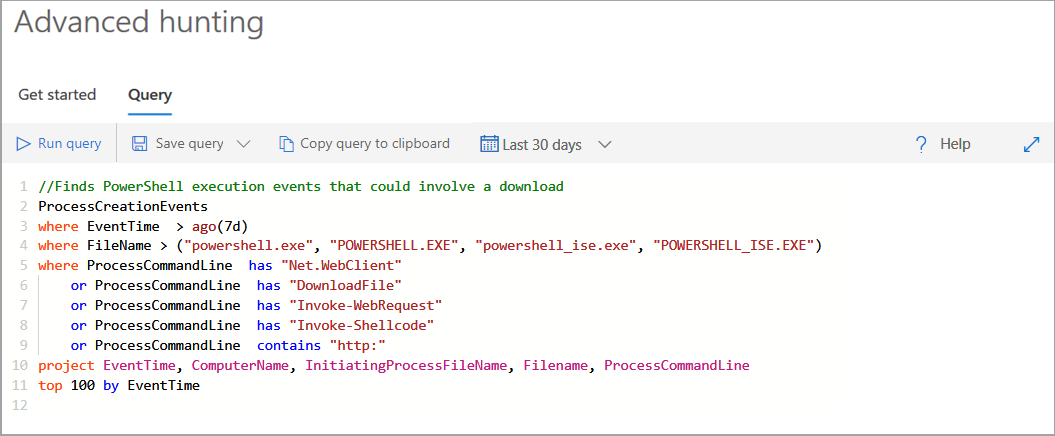
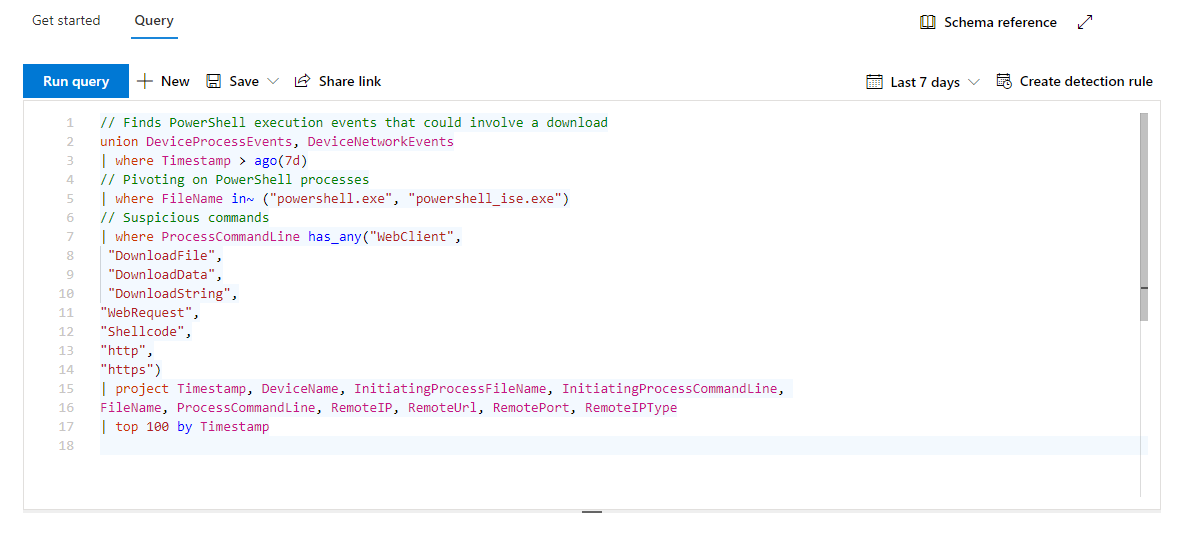
updates to fixed dev ops tickets

diff --git a/learn-m365-pr/m365/m365-security-threat-protect/includes/hunt-threats-within-network.md b/learn-m365-pr/m365/m365-security-threat-protect/includes/hunt-threats-within-network.md
@@ -2,15 +2,17 @@ Advanced hunting within Microsoft Defender for Endpoint allows you to hunt for p
 
 ### Explore how to investigate and remediate threats with Microsoft Defender for Endpoint
 
-View a [video version](https://www.microsoft.com/videoplayer/embed/RE4GfeG) of the interactive guide (captions available in more languages).
+You can use threat-hunting queries to build custom detection rules. These rules run automatically to check for and respond to various events and system states, including suspected breach activity and misconfigured machines.
 
-<a href="https://mslearn.cloudguides.com/guides/Investigate%20and%20remediate%20threats%20with%20Microsoft%20Defender%20for%20Endpoint">![Microsoft Defender for Endpoint](../media/investigate-remediate.png)</a>  
-
-Be sure to click the full-screen option in the video player. When you're done, use the **Back** arrow in your browser to come back to this page. 
-
-You can use the same threat-hunting queries to build custom detection rules. These rules run automatically to check for and respond to various events and system states, including suspected breach activity and misconfigured machines.
+To perform a sample threat-hunting query, in the [Microsoft 365 Defender portal](https://security.microsoft.com), select **Hunting** and select **Advanced Hunting**. In the query field, type the following example and select Run query:
 
 ![Use threat hunting queries](../media/threat-hunting-query.png)
+
+In the code above, the following filters have been applied:
+*    Time filter to review only records from the previous seven days
+*    Filter on the FileName to search for process file names representing the PowerShell application
+*    Filter on strings in command lines that are typically used to download files using PowerShell
+*    Define what the results look like. project returns specific columns, and top limits the number of results to 100
 
 Advanced hunting is based on the Kusto query language. The following operators are allowed:
 
@@ -25,12 +27,6 @@ Advanced hunting is based on the Kusto query language. The following operators a
 - **makeset()**. Return a dynamic (JSON) array of the set of distinct values that Expr takes in the group.
 - **find**. Find rows that match a predicate across a set of tables.
 
-In the screenshot above, the following filters have been written:
-
-- Time filter to review only records from the previous seven days. 
-- Filter on the FileName to contain only instances of powershell.exe.
-- Filter on the ProcessCommandLine.
-- Project only the columns you're interested in exploring and limit the results to 100. 
 
 ### Best practices
 
@@ -41,21 +37,3 @@ The following best practices can be followed to ensure query performance:
 - Use **looking in specific column** rather than using full text search across all columns.
 - When joining between two tables, choose the table with fewer rows to be the first one (left-most).
 - When joining between two tables, project only needed columns from both sides of the join.
-
-Here's an example of a Kusto query for process creation with suspicious file endings:
-
-```kusto
-ProcessCreationEvents 
-| where EventTime > ago(7d)
-| where FileName endswith ".pdf.exe"
-    or FileName endswith ".doc.exe"
-    or FileName endswith ".docx.exe"
-    or FileName endswith ".jpg.exe"
-    or FileName endswith ".jpeg.exe"
-| project EventTime, ComputerName, FileName, AccountSid, AccountName, AccountDomain
-| top 100 by EventTime
-
-```
-
->
-> [!VIDEO https://www.microsoft.com/videoplayer/embed/RE4COn3]

diff --git a/learn-m365-pr/m365/m365-security-threat-protect/includes/introduction.md b/learn-m365-pr/m365/m365-security-threat-protect/includes/introduction.md
@@ -11,12 +11,8 @@ The following capabilities are enabled with Microsoft Defender for Endpoint:
 - leverage artificial intelligence to automatically investigate alerts and remediate complex threats in minutes.
 - Microsoft threat experts bring deep knowledge and proactive threat hunting to your security operations Center.
 
-> [!VIDEO https://www.microsoft.com/videoplayer/embed/RE4CQvW]
-
 Microsoft Defender for Endpoint uses the following combination of technologies built into Windows 10 and Microsoft's robust cloud service:
 
 - **Endpoint behavioral sensors**. Embedded in Windows 10, these sensors collect and process behavioral signals from the operating system. The sensors send the data to your private, isolated cloud instance of Microsoft Defender for Endpoint.
 - **Cloud security analytics**. Using big data, machine learning, and unique Microsoft optics across the Windows ecosystem, enterprise cloud products (such as Office 365), and online assets, behavioral signals are translated into insights, detections, and recommended responses to advanced threats.
 - **Threat intelligence**. Generated by Microsoft hunters and security teams, and augmented by threat intelligence provided by partners, threat intelligence enables Microsoft Defender for Endpoint to identify attacker tools, techniques, and procedures, and generate alerts when these are observed in collected sensor data.
-
-> [!VIDEO https://www.microsoft.com/videoplayer/embed/RE4D0Wz]
